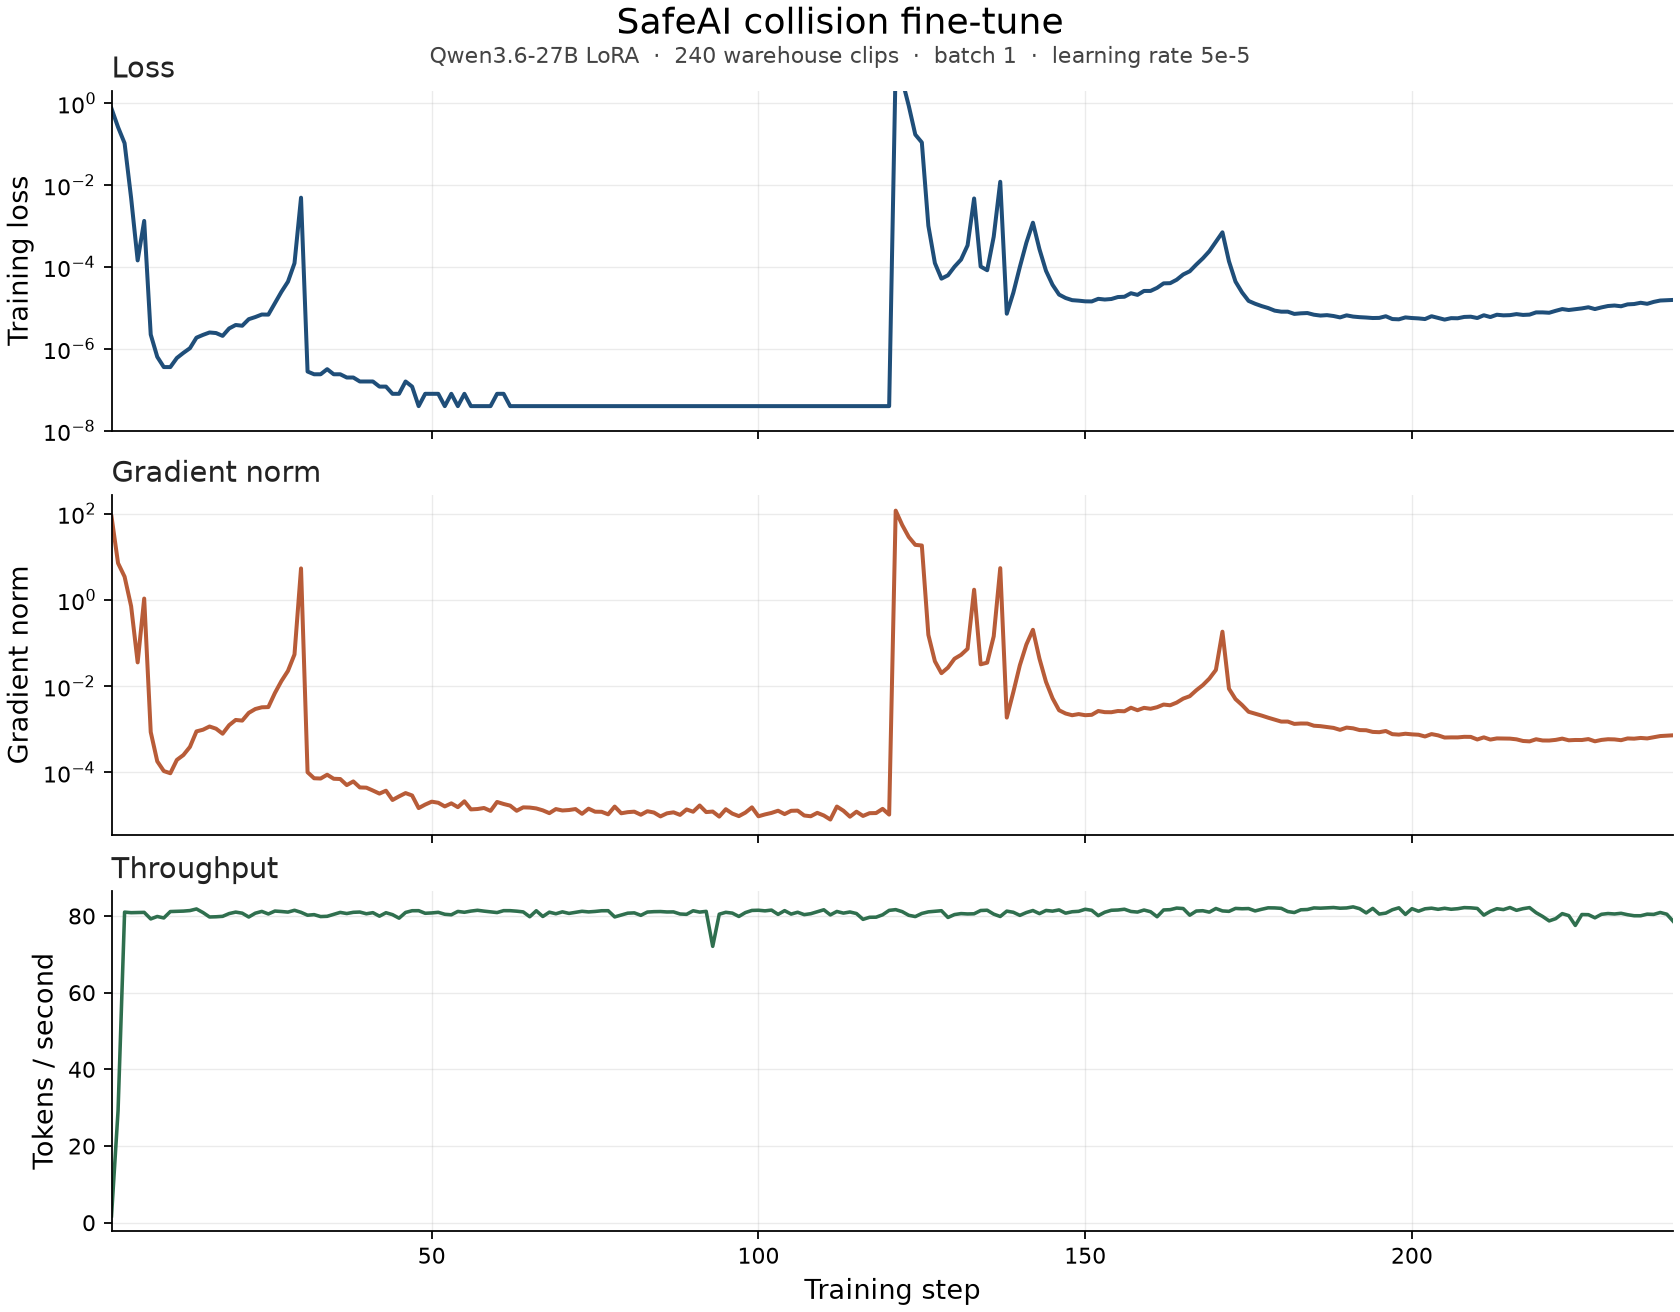
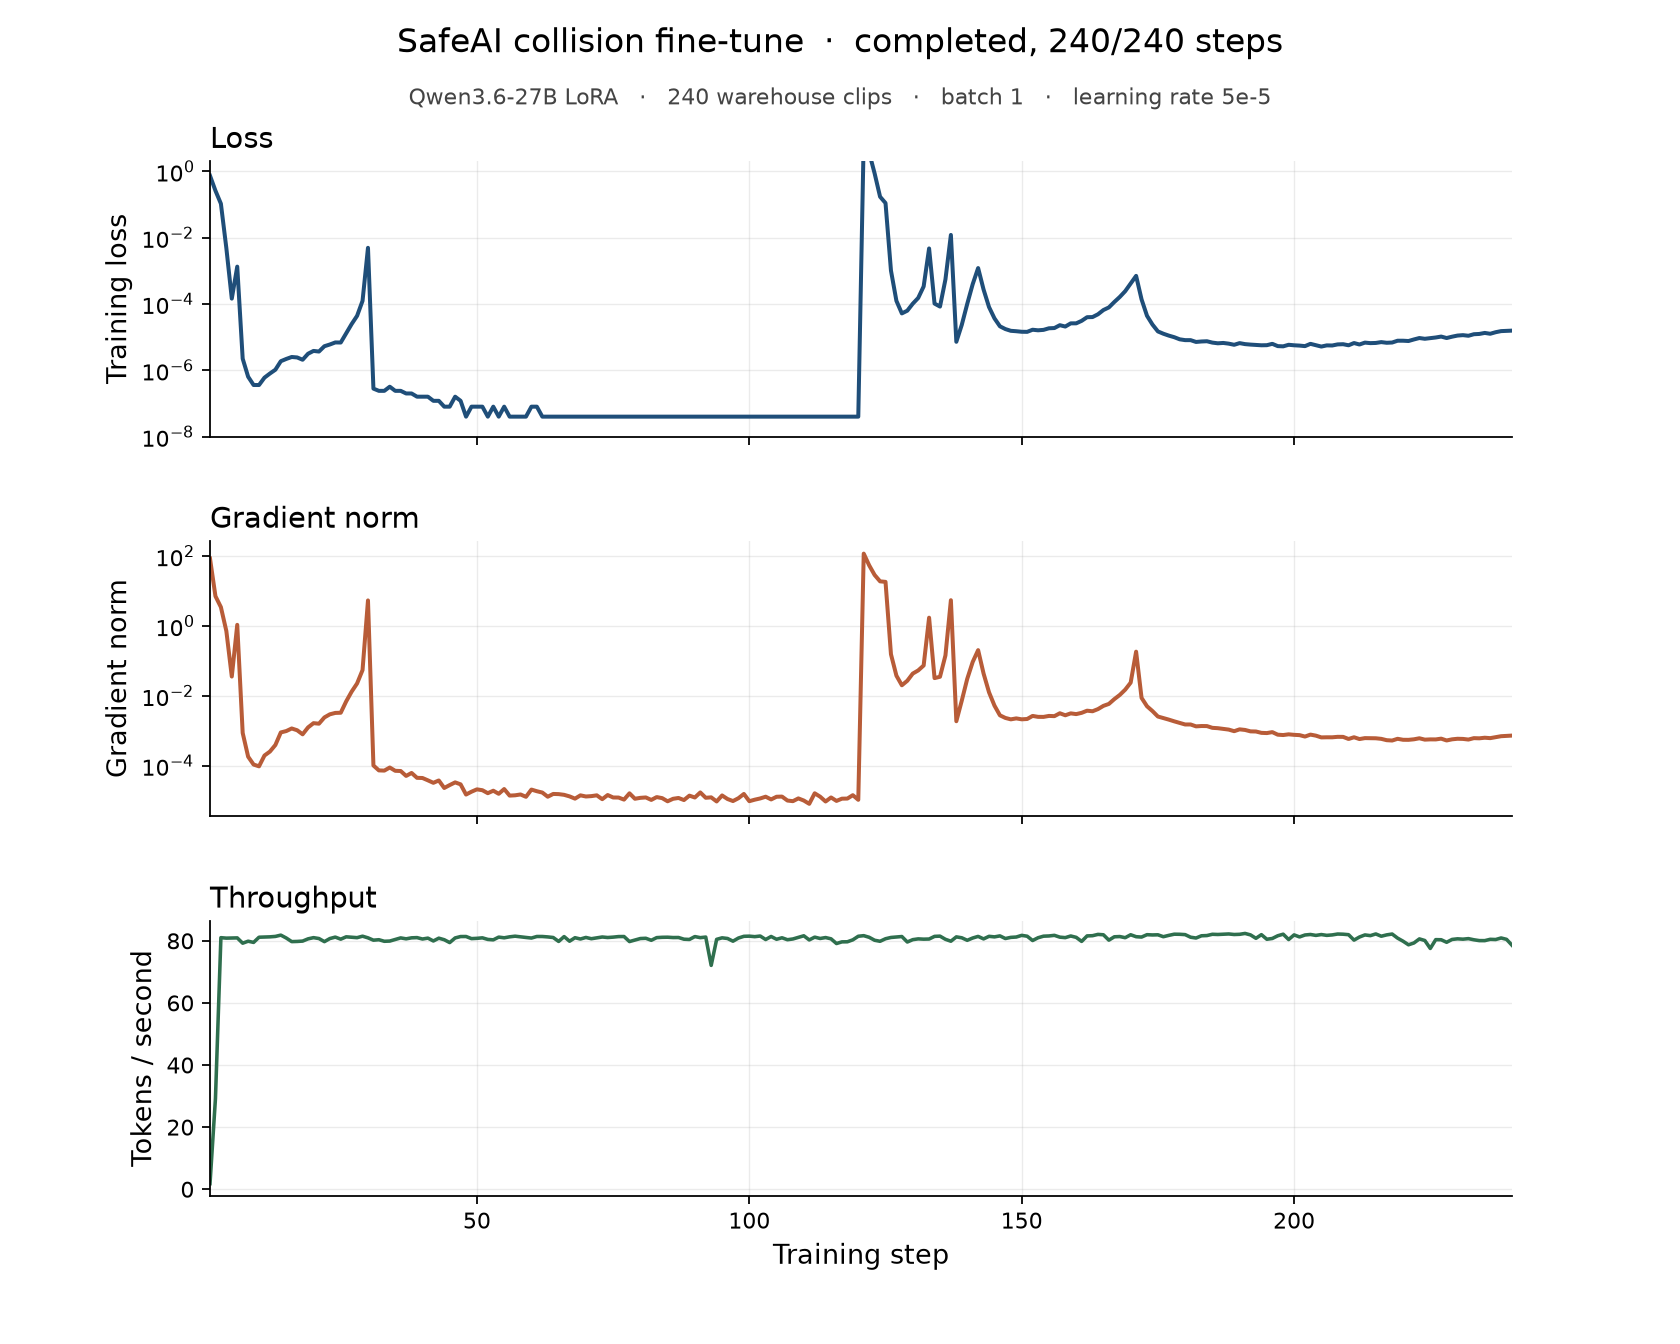
Add the completed training curve and train, eval, and test split stats.

diff --git a/README.md b/README.md
@@ -118,12 +118,57 @@ Valen reads JSONL. Each record is one pair clip, a yes/no question, and a hard l
 
 A negative example uses `"true": 0.0, "false": 1.0`. Training continues from the preview checkpoint at stage `vision_top` (or `warmup` if only the decision head should move). The held-out manifests are the eval and test sets.
 
-## Training curve
+## Training run
 
-The run that is logged today is a LoRA on [Qwen3.6-27B](https://wandb.ai/vastdata/team-43/runs/safeai-collision), trained with W&B Serverless SFT on the 240 train pairs. Batch size is 1 and the learning rate is 5e-5. Each step is one clip. The answer tokens are `true` or `false`.
+The finished run is a LoRA on [Qwen3.6-27B](https://wandb.ai/vastdata/team-43/runs/safeai-collision), trained with W&B Serverless SFT. Batch size is 1 and the learning rate is 5e-5. Each step is one train clip. The answer tokens are `true` or `false`. The job ran from 22:51:25 to 22:56:37 UTC on 2 Oct 2026. The adapter is artifact `safeai-collision:v1` (alias `step1`).
 
-![Training loss, gradient norm, and throughput](finetune/training-curve.png)
+| | Value |
+|---|---:|
+| Steps | 240 / 240 |
+| Step-loop GPU time | 183 s |
+| Loss, first step | 0.735 |
+| Loss, mean | 0.0638 |
+| Loss, lowest (step 48) | 4.0e-8 |
+| Loss, final step | 1.56e-5 |
+| Gradient norm, first → final | 84.7 → 7.3e-4 |
+| Throughput after warmup | ~80 tokens/s |
 
-Loss falls below 1e-4 within the first few steps, jumps again near step 120, and finishes near 1e-5. The step metrics are in `finetune/metrics.jsonl`.
+![Completed training loss, gradient norm, and throughput](finetune/training-curve.png)
+
+Loss falls below 1e-4 within the first few steps, jumps again near step 120, and finishes near 1e-5. Every step is in `finetune/metrics.jsonl`.
+
+## Train, eval, and test
+
+Each download contributes five pairs, and every pair from one download stays in the same split.
+
+| | Train | Eval | Test |
+|---|---:|---:|---:|
+| Downloads | 48 | 16 | 16 |
+| Pairs | 240 | 80 | 80 |
+| Collision pairs | 120 | 40 | 40 |
+| No-collision pairs | 120 | 40 | 40 |
+| Frames | 480 | 160 | 160 |
+| Frames with a person | 447 | 130 | 150 |
+| Frames with no box | 23 | 27 | 10 |
+| Person boxes | 1,932 | 314 | 531 |
+| Truck + car boxes | 118 | 24 | 44 |
+
+No YOLO file is missing. Forklifts are not a COCO class, so truck and car boxes are the closest machine signal in the sidecars.
+
+Collision downloads by the caption phrase that selected them:
+
+| Phrase | Train | Eval | Test |
+|---|---:|---:|---:|
+| interact | 13 | 3 | 1 |
+| walks toward | 4 | 1 | 2 |
+| approaching | 2 | 0 | 1 |
+| approaches | 1 | 2 | 0 |
+| toward the forklift | 2 | 1 | 0 |
+| toward a forklift | 1 | 0 | 1 |
+| toward the person | 0 | 1 | 1 |
+| makes contact | 1 | 0 | 0 |
+| runs toward | 0 | 0 | 1 |
+| runs away | 0 | 0 | 1 |
+| No-collision downloads | 24 | 8 | 8 |
 
 `collision-data/` is an earlier, smaller pull (one contact clip and one calm clip). The warehouse set above is the one to train on.
